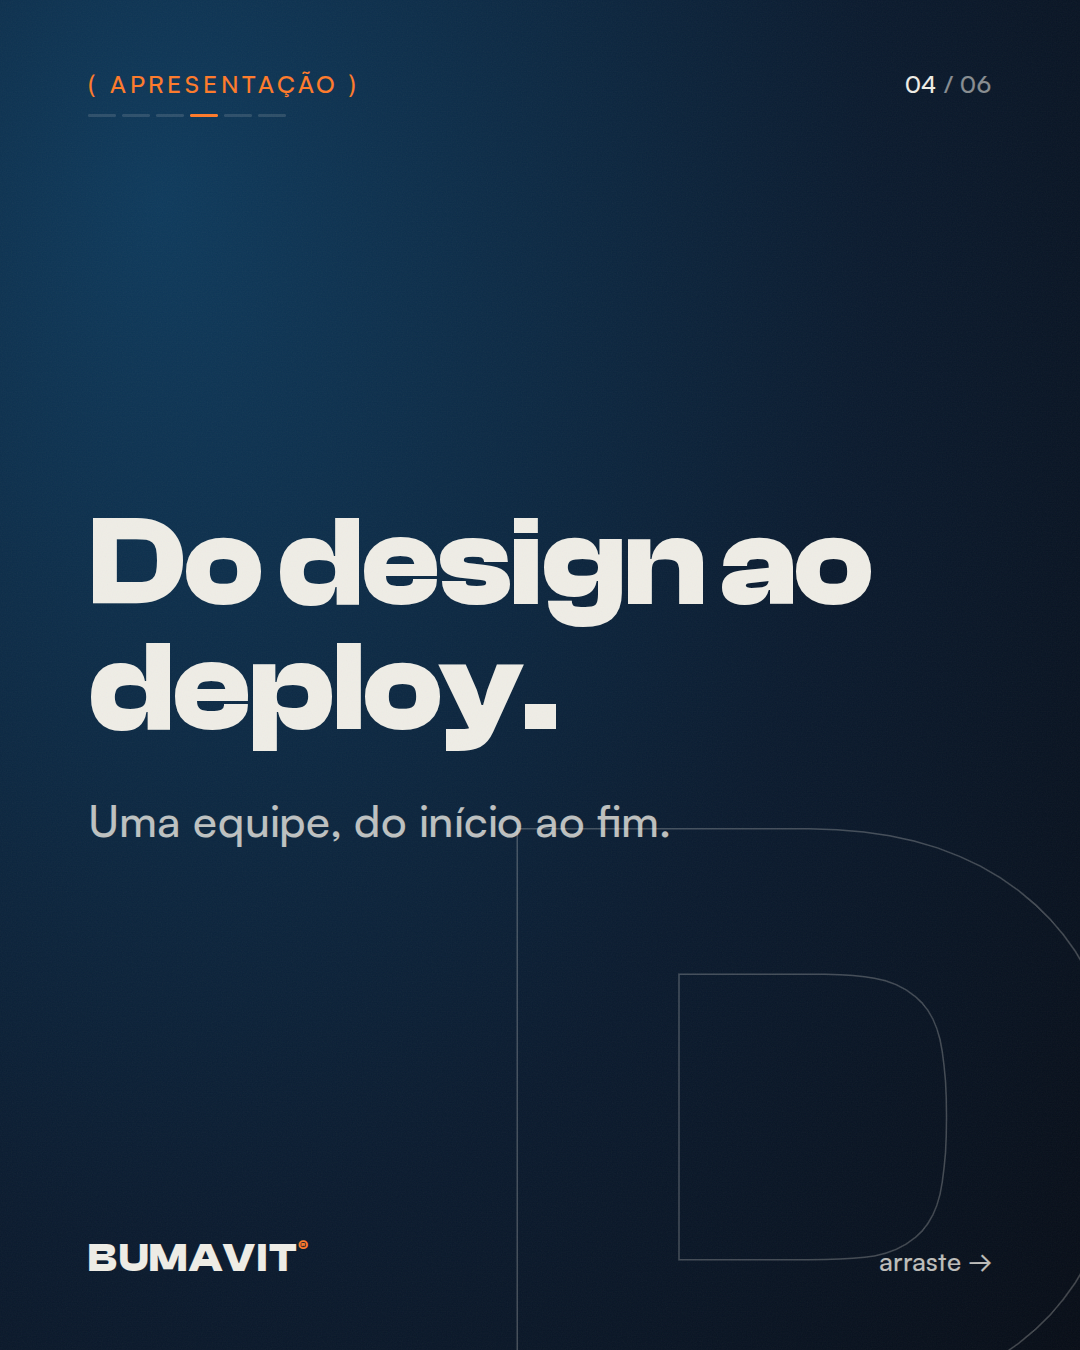
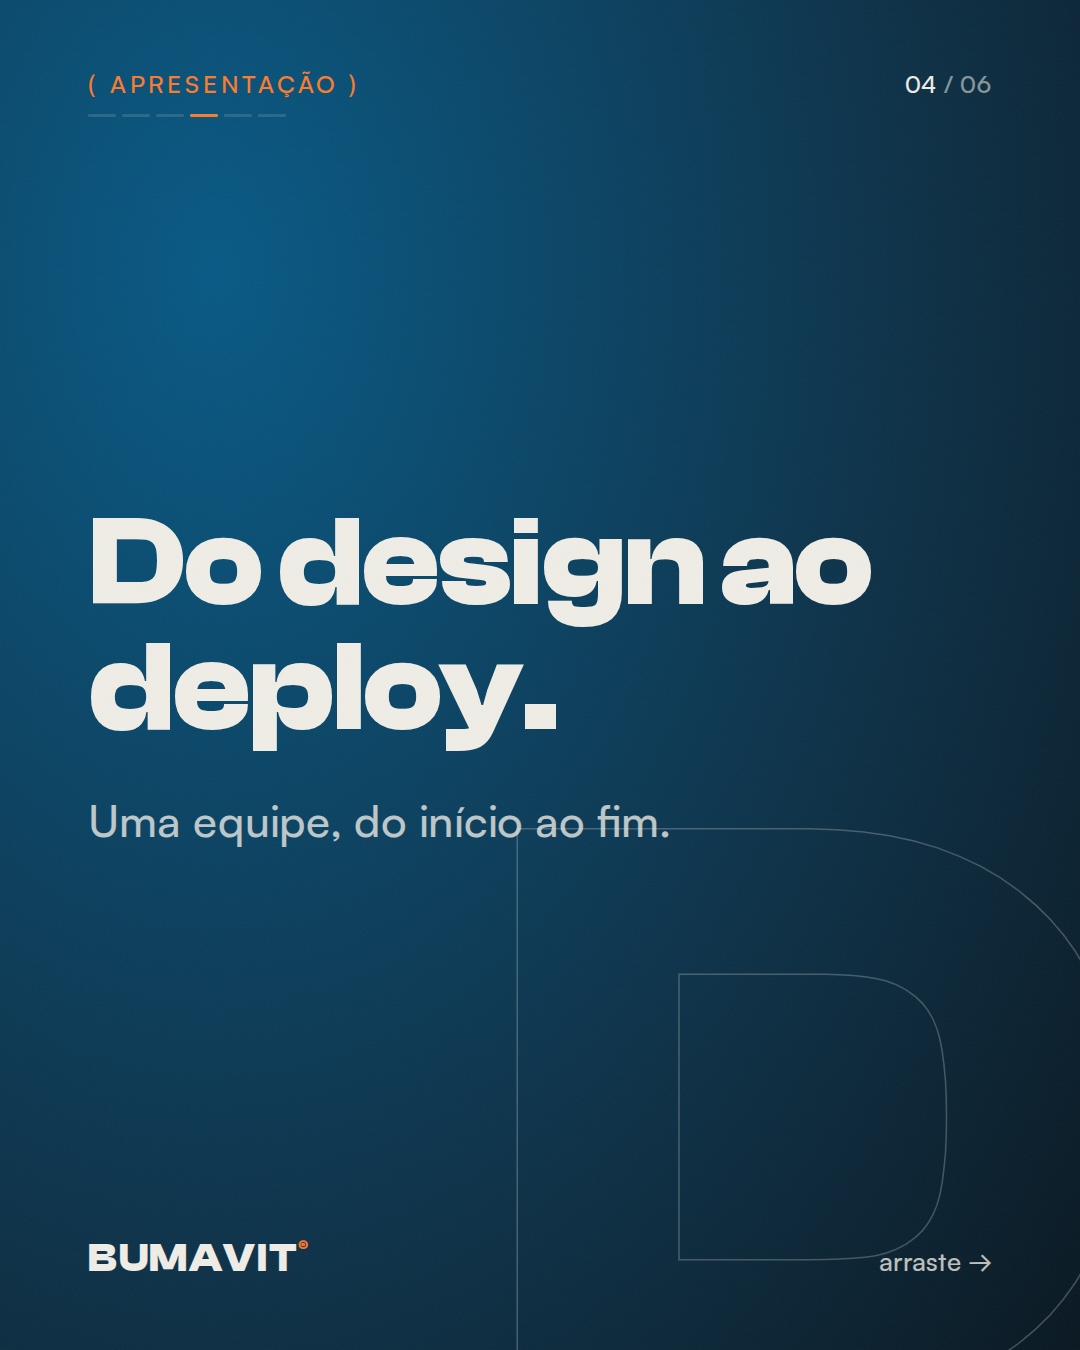
Re-renderiza os slides do Instagram com as três tintas de capa
Os HTML autocontidos embutem os tokens do design system, então todos os
posts foram gerados de novo: o post 4 (processo) sai do roxo para o ciano
escurecido e os slides 2 e 3 do post 1 trocam o navy pelo mesmo ciano.
verify-ig.py sem falhas.

Claude-Session: https://claude.ai/code/session_017KMX6LHaAkMpqLbNXggV12

diff --git a/images/instagram/ig-01-apresentacao/ig-01-apresentacao.html b/images/instagram/ig-01-apresentacao/ig-01-apresentacao.html
@@ -66,12 +66,16 @@
   --focus-ring:var(--accent);
   --error:#ff7a6b;
 
-  /* project cover gradients (work cards + blog covers) */
-  --cover-blue:radial-gradient(120% 140% at 15% 15%,#0e3a5c 0%,#0a1a2e 55%,#060a12 100%); /* @kind color */
-  --cover-green:radial-gradient(120% 140% at 85% 20%,#14532d 0%,#0b2818 55%,#060d08 100%); /* @kind color */
-  --cover-violet:radial-gradient(120% 140% at 20% 85%,#4c1d95 0%,#241045 55%,#0c0616 100%); /* @kind color */
-  --cover-rust:radial-gradient(120% 140% at 80% 80%,#9a3412 0%,#431407 55%,#120602 100%); /* @kind color */
-  --cover-seo:radial-gradient(120% 140% at 20% 20%,#075985 0%,#0c2f45 55%,#060d12 100%); /* @kind color */
+  /* cover tints (work cards, blog covers, social cards): three surfaces derived from the
+     palette. A tint is layout rhythm, never an identifier — project and category are told
+     by text, the outlined initial and real imagery. Stops are separate so the focal point
+     can vary per position (radial-gradient(... at <x> <y>, ...)). */
+  --cover-ink-1:#1c1c22;  --cover-ink-2:#121216;  --cover-ink-3:#0b0b0d;   /* @kind color */
+  --cover-cyan-1:#075985; --cover-cyan-2:#0c2f45; --cover-cyan-3:#060d12;  /* @kind color — #38bdf8 darkened, hue 201° */
+  --cover-rust-1:#9a3f12; --cover-rust-2:#45200a; --cover-rust-3:#120802;  /* @kind color — #ff7a29 darkened, hue 20° */
+  --cover-ink:radial-gradient(120% 140% at 20% 20%,var(--cover-ink-1) 0%,var(--cover-ink-2) 55%,var(--cover-ink-3) 100%); /* @kind color */
+  --cover-cyan:radial-gradient(120% 140% at 20% 20%,var(--cover-cyan-1) 0%,var(--cover-cyan-2) 55%,var(--cover-cyan-3) 100%); /* @kind color */
+  --cover-rust:radial-gradient(120% 140% at 20% 20%,var(--cover-rust-1) 0%,var(--cover-rust-2) 55%,var(--cover-rust-3) 100%); /* @kind color */
 }
 
 /* ── Typography ─────────────────────────────────────────
@@ -253,7 +257,7 @@
   .page[data-type="media"] .text { font-size: 88px; }
   .media {
     position: relative; flex: 1; min-height: 0; margin-top: 48px; border-radius: var(--radius-media); overflow: hidden;
-    background: var(--cover-blue);
+    background: var(--cover-cyan);
   }
   .media::after { content: ""; position: absolute; inset: 0; background-image: var(--grain-url-media); opacity: var(--grain-media-opacity); mix-blend-mode: overlay; pointer-events: none; }
   .media:not([data-devstage]) > img { position: absolute; inset: 0; width: 100%; height: 100%; object-fit: cover; object-position: top center; }
@@ -307,7 +311,7 @@
  "slug": "ig-01-apresentacao",
  "jira": "CLA-105",
  "eyebrow": "Apresentação",
- "cover": "blue",
+ "cover": "cyan",
  "handle": "@bumavit",
  "slides": [
   {
@@ -358,7 +362,7 @@
   var overrides = {};
   get('variant', '').split(',').forEach(function (p) { var m = p.split('='); if (m.length === 2) overrides[m[0]] = m[1]; });
 
-  var COVERS = { blue: 'var(--cover-blue)', green: 'var(--cover-green)', violet: 'var(--cover-violet)', rust: 'var(--cover-rust)', seo: 'var(--cover-seo)' };
+  var COVERS = { ink: 'var(--cover-ink)', cyan: 'var(--cover-cyan)', rust: 'var(--cover-rust)' }; // three tints; rhythm, never an identifier
   var SIZES = { feed: [1080, 1350], story: [1080, 1920], highlight: [1080, 1080] };
   var pad2 = function (n) { return (n < 10 ? '0' : '') + n; };
 

diff --git a/images/instagram/ig-01-variacoes/ig-01-variacoes.html b/images/instagram/ig-01-variacoes/ig-01-variacoes.html
@@ -66,12 +66,16 @@
   --focus-ring:var(--accent);
   --error:#ff7a6b;
 
-  /* project cover gradients (work cards + blog covers) */
-  --cover-blue:radial-gradient(120% 140% at 15% 15%,#0e3a5c 0%,#0a1a2e 55%,#060a12 100%); /* @kind color */
-  --cover-green:radial-gradient(120% 140% at 85% 20%,#14532d 0%,#0b2818 55%,#060d08 100%); /* @kind color */
-  --cover-violet:radial-gradient(120% 140% at 20% 85%,#4c1d95 0%,#241045 55%,#0c0616 100%); /* @kind color */
-  --cover-rust:radial-gradient(120% 140% at 80% 80%,#9a3412 0%,#431407 55%,#120602 100%); /* @kind color */
-  --cover-seo:radial-gradient(120% 140% at 20% 20%,#075985 0%,#0c2f45 55%,#060d12 100%); /* @kind color */
+  /* cover tints (work cards, blog covers, social cards): three surfaces derived from the
+     palette. A tint is layout rhythm, never an identifier — project and category are told
+     by text, the outlined initial and real imagery. Stops are separate so the focal point
+     can vary per position (radial-gradient(... at <x> <y>, ...)). */
+  --cover-ink-1:#1c1c22;  --cover-ink-2:#121216;  --cover-ink-3:#0b0b0d;   /* @kind color */
+  --cover-cyan-1:#075985; --cover-cyan-2:#0c2f45; --cover-cyan-3:#060d12;  /* @kind color — #38bdf8 darkened, hue 201° */
+  --cover-rust-1:#9a3f12; --cover-rust-2:#45200a; --cover-rust-3:#120802;  /* @kind color — #ff7a29 darkened, hue 20° */
+  --cover-ink:radial-gradient(120% 140% at 20% 20%,var(--cover-ink-1) 0%,var(--cover-ink-2) 55%,var(--cover-ink-3) 100%); /* @kind color */
+  --cover-cyan:radial-gradient(120% 140% at 20% 20%,var(--cover-cyan-1) 0%,var(--cover-cyan-2) 55%,var(--cover-cyan-3) 100%); /* @kind color */
+  --cover-rust:radial-gradient(120% 140% at 20% 20%,var(--cover-rust-1) 0%,var(--cover-rust-2) 55%,var(--cover-rust-3) 100%); /* @kind color */
 }
 
 /* ── Typography ─────────────────────────────────────────
@@ -253,7 +257,7 @@
   .page[data-type="media"] .text { font-size: 88px; }
   .media {
     position: relative; flex: 1; min-height: 0; margin-top: 48px; border-radius: var(--radius-media); overflow: hidden;
-    background: var(--cover-blue);
+    background: var(--cover-cyan);
   }
   .media::after { content: ""; position: absolute; inset: 0; background-image: var(--grain-url-media); opacity: var(--grain-media-opacity); mix-blend-mode: overlay; pointer-events: none; }
   .media:not([data-devstage]) > img { position: absolute; inset: 0; width: 100%; height: 100%; object-fit: cover; object-position: top center; }
@@ -307,7 +311,7 @@
  "slug": "ig-01-variacoes",
  "jira": "CLA-105",
  "eyebrow": "Apresentação",
- "cover": "blue",
+ "cover": "cyan",
  "handle": "@bumavit",
  "slides": [
   {
@@ -366,7 +370,7 @@
   var overrides = {};
   get('variant', '').split(',').forEach(function (p) { var m = p.split('='); if (m.length === 2) overrides[m[0]] = m[1]; });
 
-  var COVERS = { blue: 'var(--cover-blue)', green: 'var(--cover-green)', violet: 'var(--cover-violet)', rust: 'var(--cover-rust)', seo: 'var(--cover-seo)' };
+  var COVERS = { ink: 'var(--cover-ink)', cyan: 'var(--cover-cyan)', rust: 'var(--cover-rust)' }; // three tints; rhythm, never an identifier
   var SIZES = { feed: [1080, 1350], story: [1080, 1920], highlight: [1080, 1080] };
   var pad2 = function (n) { return (n < 10 ? '0' : '') + n; };
 

diff --git a/images/instagram/ig-04-processo/ig-04-processo.html b/images/instagram/ig-04-processo/ig-04-processo.html
@@ -66,12 +66,16 @@
   --focus-ring:var(--accent);
   --error:#ff7a6b;
 
-  /* project cover gradients (work cards + blog covers) */
-  --cover-blue:radial-gradient(120% 140% at 15% 15%,#0e3a5c 0%,#0a1a2e 55%,#060a12 100%); /* @kind color */
-  --cover-green:radial-gradient(120% 140% at 85% 20%,#14532d 0%,#0b2818 55%,#060d08 100%); /* @kind color */
-  --cover-violet:radial-gradient(120% 140% at 20% 85%,#4c1d95 0%,#241045 55%,#0c0616 100%); /* @kind color */
-  --cover-rust:radial-gradient(120% 140% at 80% 80%,#9a3412 0%,#431407 55%,#120602 100%); /* @kind color */
-  --cover-seo:radial-gradient(120% 140% at 20% 20%,#075985 0%,#0c2f45 55%,#060d12 100%); /* @kind color */
+  /* cover tints (work cards, blog covers, social cards): three surfaces derived from the
+     palette. A tint is layout rhythm, never an identifier — project and category are told
+     by text, the outlined initial and real imagery. Stops are separate so the focal point
+     can vary per position (radial-gradient(... at <x> <y>, ...)). */
+  --cover-ink-1:#1c1c22;  --cover-ink-2:#121216;  --cover-ink-3:#0b0b0d;   /* @kind color */
+  --cover-cyan-1:#075985; --cover-cyan-2:#0c2f45; --cover-cyan-3:#060d12;  /* @kind color — #38bdf8 darkened, hue 201° */
+  --cover-rust-1:#9a3f12; --cover-rust-2:#45200a; --cover-rust-3:#120802;  /* @kind color — #ff7a29 darkened, hue 20° */
+  --cover-ink:radial-gradient(120% 140% at 20% 20%,var(--cover-ink-1) 0%,var(--cover-ink-2) 55%,var(--cover-ink-3) 100%); /* @kind color */
+  --cover-cyan:radial-gradient(120% 140% at 20% 20%,var(--cover-cyan-1) 0%,var(--cover-cyan-2) 55%,var(--cover-cyan-3) 100%); /* @kind color */
+  --cover-rust:radial-gradient(120% 140% at 20% 20%,var(--cover-rust-1) 0%,var(--cover-rust-2) 55%,var(--cover-rust-3) 100%); /* @kind color */
 }
 
 /* ── Typography ─────────────────────────────────────────
@@ -253,7 +257,7 @@
   .page[data-type="media"] .text { font-size: 88px; }
   .media {
     position: relative; flex: 1; min-height: 0; margin-top: 48px; border-radius: var(--radius-media); overflow: hidden;
-    background: var(--cover-blue);
+    background: var(--cover-cyan);
   }
   .media::after { content: ""; position: absolute; inset: 0; background-image: var(--grain-url-media); opacity: var(--grain-media-opacity); mix-blend-mode: overlay; pointer-events: none; }
   .media:not([data-devstage]) > img { position: absolute; inset: 0; width: 100%; height: 100%; object-fit: cover; object-position: top center; }
@@ -307,7 +311,7 @@
  "slug": "ig-04-processo",
  "jira": "CLA-109",
  "eyebrow": "Processo",
- "cover": "violet",
+ "cover": "cyan",
  "handle": "@bumavit",
  "slides": [
   {
@@ -361,7 +365,7 @@
   var overrides = {};
   get('variant', '').split(',').forEach(function (p) { var m = p.split('='); if (m.length === 2) overrides[m[0]] = m[1]; });
 
-  var COVERS = { blue: 'var(--cover-blue)', green: 'var(--cover-green)', violet: 'var(--cover-violet)', rust: 'var(--cover-rust)', seo: 'var(--cover-seo)' };
+  var COVERS = { ink: 'var(--cover-ink)', cyan: 'var(--cover-cyan)', rust: 'var(--cover-rust)' }; // three tints; rhythm, never an identifier
   var SIZES = { feed: [1080, 1350], story: [1080, 1920], highlight: [1080, 1080] };
   var pad2 = function (n) { return (n < 10 ? '0' : '') + n; };
 

diff --git a/images/instagram/destaques/destaques.html b/images/instagram/destaques/destaques.html
@@ -66,12 +66,16 @@
   --focus-ring:var(--accent);
   --error:#ff7a6b;
 
-  /* project cover gradients (work cards + blog covers) */
-  --cover-blue:radial-gradient(120% 140% at 15% 15%,#0e3a5c 0%,#0a1a2e 55%,#060a12 100%); /* @kind color */
-  --cover-green:radial-gradient(120% 140% at 85% 20%,#14532d 0%,#0b2818 55%,#060d08 100%); /* @kind color */
-  --cover-violet:radial-gradient(120% 140% at 20% 85%,#4c1d95 0%,#241045 55%,#0c0616 100%); /* @kind color */
-  --cover-rust:radial-gradient(120% 140% at 80% 80%,#9a3412 0%,#431407 55%,#120602 100%); /* @kind color */
-  --cover-seo:radial-gradient(120% 140% at 20% 20%,#075985 0%,#0c2f45 55%,#060d12 100%); /* @kind color */
+  /* cover tints (work cards, blog covers, social cards): three surfaces derived from the
+     palette. A tint is layout rhythm, never an identifier — project and category are told
+     by text, the outlined initial and real imagery. Stops are separate so the focal point
+     can vary per position (radial-gradient(... at <x> <y>, ...)). */
+  --cover-ink-1:#1c1c22;  --cover-ink-2:#121216;  --cover-ink-3:#0b0b0d;   /* @kind color */
+  --cover-cyan-1:#075985; --cover-cyan-2:#0c2f45; --cover-cyan-3:#060d12;  /* @kind color — #38bdf8 darkened, hue 201° */
+  --cover-rust-1:#9a3f12; --cover-rust-2:#45200a; --cover-rust-3:#120802;  /* @kind color — #ff7a29 darkened, hue 20° */
+  --cover-ink:radial-gradient(120% 140% at 20% 20%,var(--cover-ink-1) 0%,var(--cover-ink-2) 55%,var(--cover-ink-3) 100%); /* @kind color */
+  --cover-cyan:radial-gradient(120% 140% at 20% 20%,var(--cover-cyan-1) 0%,var(--cover-cyan-2) 55%,var(--cover-cyan-3) 100%); /* @kind color */
+  --cover-rust:radial-gradient(120% 140% at 20% 20%,var(--cover-rust-1) 0%,var(--cover-rust-2) 55%,var(--cover-rust-3) 100%); /* @kind color */
 }
 
 /* ── Typography ─────────────────────────────────────────
@@ -253,7 +257,7 @@
   .page[data-type="media"] .text { font-size: 88px; }
   .media {
     position: relative; flex: 1; min-height: 0; margin-top: 48px; border-radius: var(--radius-media); overflow: hidden;
-    background: var(--cover-blue);
+    background: var(--cover-cyan);
   }
   .media::after { content: ""; position: absolute; inset: 0; background-image: var(--grain-url-media); opacity: var(--grain-media-opacity); mix-blend-mode: overlay; pointer-events: none; }
   .media:not([data-devstage]) > img { position: absolute; inset: 0; width: 100%; height: 100%; object-fit: cover; object-position: top center; }
@@ -345,7 +349,7 @@
   var overrides = {};
   get('variant', '').split(',').forEach(function (p) { var m = p.split('='); if (m.length === 2) overrides[m[0]] = m[1]; });
 
-  var COVERS = { blue: 'var(--cover-blue)', green: 'var(--cover-green)', violet: 'var(--cover-violet)', rust: 'var(--cover-rust)', seo: 'var(--cover-seo)' };
+  var COVERS = { ink: 'var(--cover-ink)', cyan: 'var(--cover-cyan)', rust: 'var(--cover-rust)' }; // three tints; rhythm, never an identifier
   var SIZES = { feed: [1080, 1350], story: [1080, 1920], highlight: [1080, 1080] };
   var pad2 = function (n) { return (n < 10 ? '0' : '') + n; };
 

diff --git a/images/instagram/ig-07-estimador/ig-07-estimador.html b/images/instagram/ig-07-estimador/ig-07-estimador.html
@@ -66,12 +66,16 @@
   --focus-ring:var(--accent);
   --error:#ff7a6b;
 
-  /* project cover gradients (work cards + blog covers) */
-  --cover-blue:radial-gradient(120% 140% at 15% 15%,#0e3a5c 0%,#0a1a2e 55%,#060a12 100%); /* @kind color */
-  --cover-green:radial-gradient(120% 140% at 85% 20%,#14532d 0%,#0b2818 55%,#060d08 100%); /* @kind color */
-  --cover-violet:radial-gradient(120% 140% at 20% 85%,#4c1d95 0%,#241045 55%,#0c0616 100%); /* @kind color */
-  --cover-rust:radial-gradient(120% 140% at 80% 80%,#9a3412 0%,#431407 55%,#120602 100%); /* @kind color */
-  --cover-seo:radial-gradient(120% 140% at 20% 20%,#075985 0%,#0c2f45 55%,#060d12 100%); /* @kind color */
+  /* cover tints (work cards, blog covers, social cards): three surfaces derived from the
+     palette. A tint is layout rhythm, never an identifier — project and category are told
+     by text, the outlined initial and real imagery. Stops are separate so the focal point
+     can vary per position (radial-gradient(... at <x> <y>, ...)). */
+  --cover-ink-1:#1c1c22;  --cover-ink-2:#121216;  --cover-ink-3:#0b0b0d;   /* @kind color */
+  --cover-cyan-1:#075985; --cover-cyan-2:#0c2f45; --cover-cyan-3:#060d12;  /* @kind color — #38bdf8 darkened, hue 201° */
+  --cover-rust-1:#9a3f12; --cover-rust-2:#45200a; --cover-rust-3:#120802;  /* @kind color — #ff7a29 darkened, hue 20° */
+  --cover-ink:radial-gradient(120% 140% at 20% 20%,var(--cover-ink-1) 0%,var(--cover-ink-2) 55%,var(--cover-ink-3) 100%); /* @kind color */
+  --cover-cyan:radial-gradient(120% 140% at 20% 20%,var(--cover-cyan-1) 0%,var(--cover-cyan-2) 55%,var(--cover-cyan-3) 100%); /* @kind color */
+  --cover-rust:radial-gradient(120% 140% at 20% 20%,var(--cover-rust-1) 0%,var(--cover-rust-2) 55%,var(--cover-rust-3) 100%); /* @kind color */
 }
 
 /* ── Typography ─────────────────────────────────────────
@@ -253,7 +257,7 @@
   .page[data-type="media"] .text { font-size: 88px; }
   .media {
     position: relative; flex: 1; min-height: 0; margin-top: 48px; border-radius: var(--radius-media); overflow: hidden;
-    background: var(--cover-blue);
+    background: var(--cover-cyan);
   }
   .media::after { content: ""; position: absolute; inset: 0; background-image: var(--grain-url-media); opacity: var(--grain-media-opacity); mix-blend-mode: overlay; pointer-events: none; }
   .media:not([data-devstage]) > img { position: absolute; inset: 0; width: 100%; height: 100%; object-fit: cover; object-position: top center; }
@@ -348,7 +352,7 @@
   var overrides = {};
   get('variant', '').split(',').forEach(function (p) { var m = p.split('='); if (m.length === 2) overrides[m[0]] = m[1]; });
 
-  var COVERS = { blue: 'var(--cover-blue)', green: 'var(--cover-green)', violet: 'var(--cover-violet)', rust: 'var(--cover-rust)', seo: 'var(--cover-seo)' };
+  var COVERS = { ink: 'var(--cover-ink)', cyan: 'var(--cover-cyan)', rust: 'var(--cover-rust)' }; // three tints; rhythm, never an identifier
   var SIZES = { feed: [1080, 1350], story: [1080, 1920], highlight: [1080, 1080] };
   var pad2 = function (n) { return (n < 10 ? '0' : '') + n; };
 
